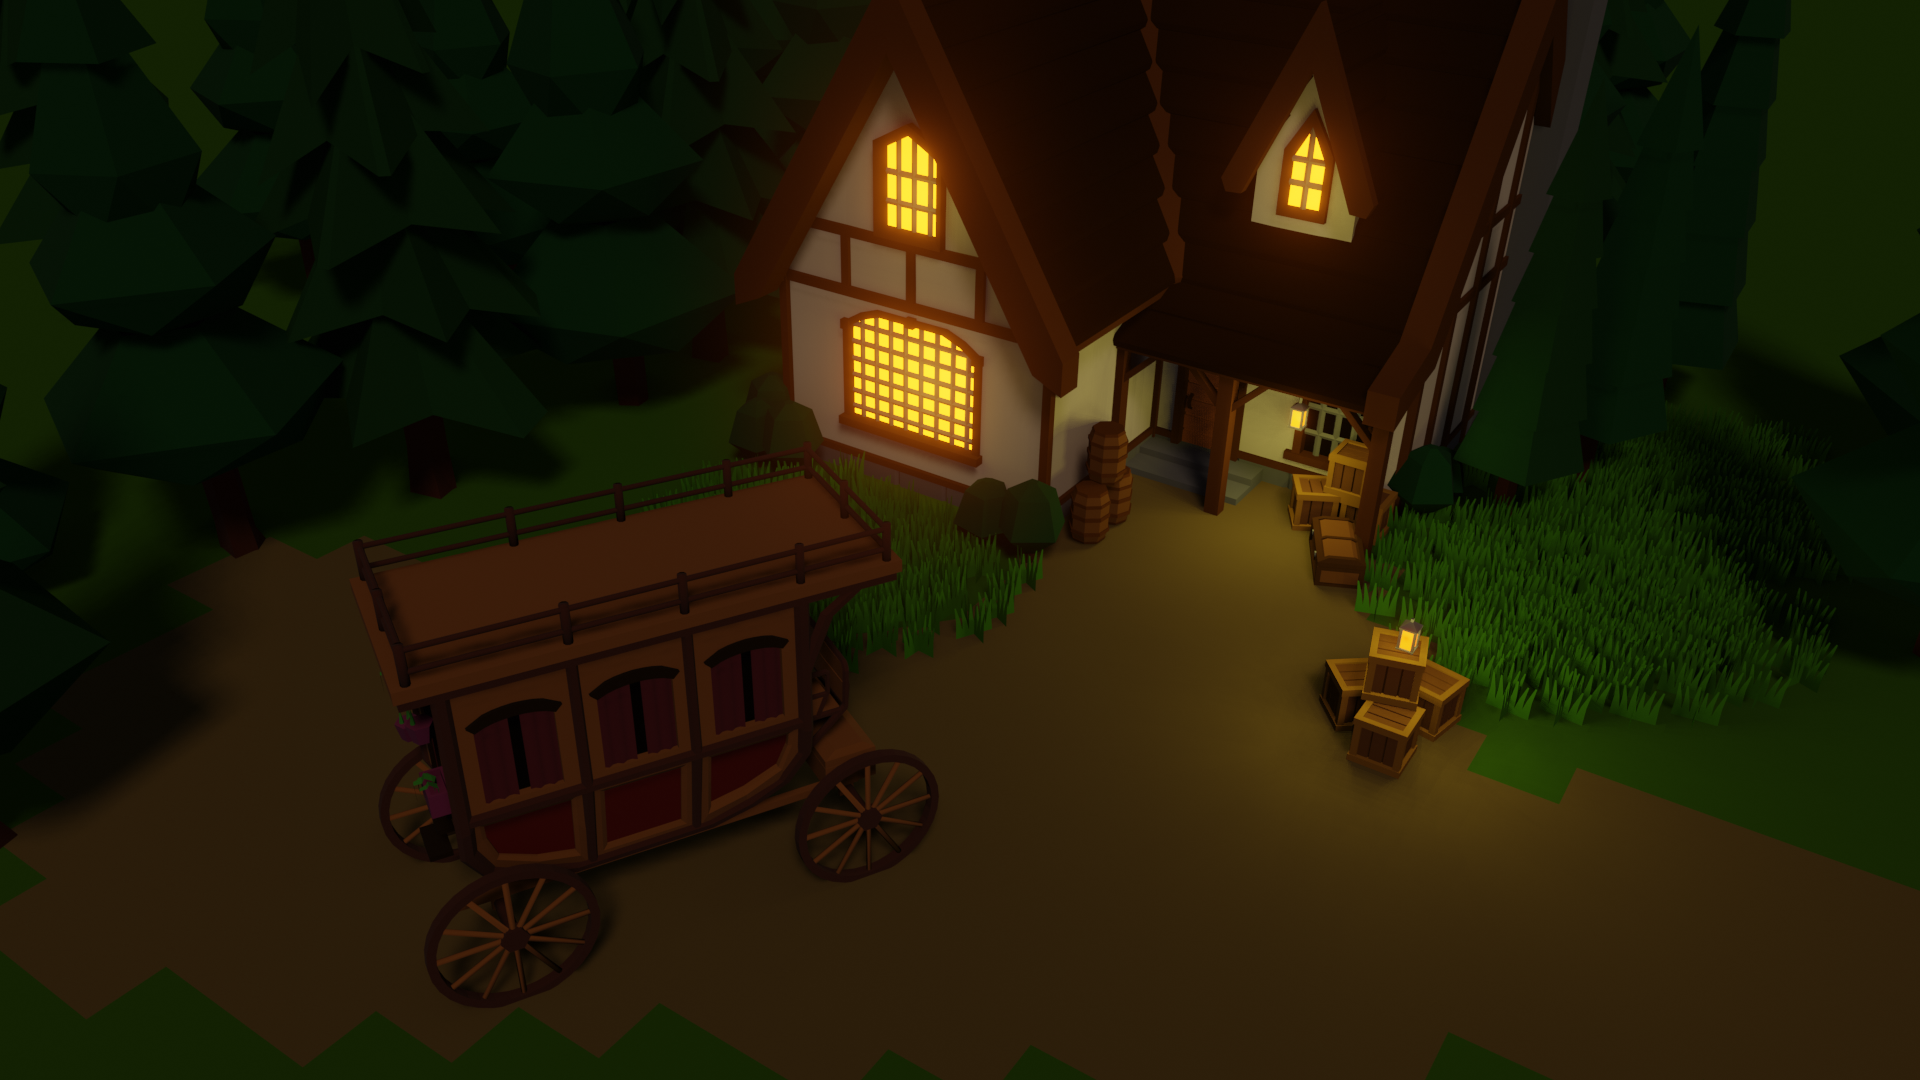
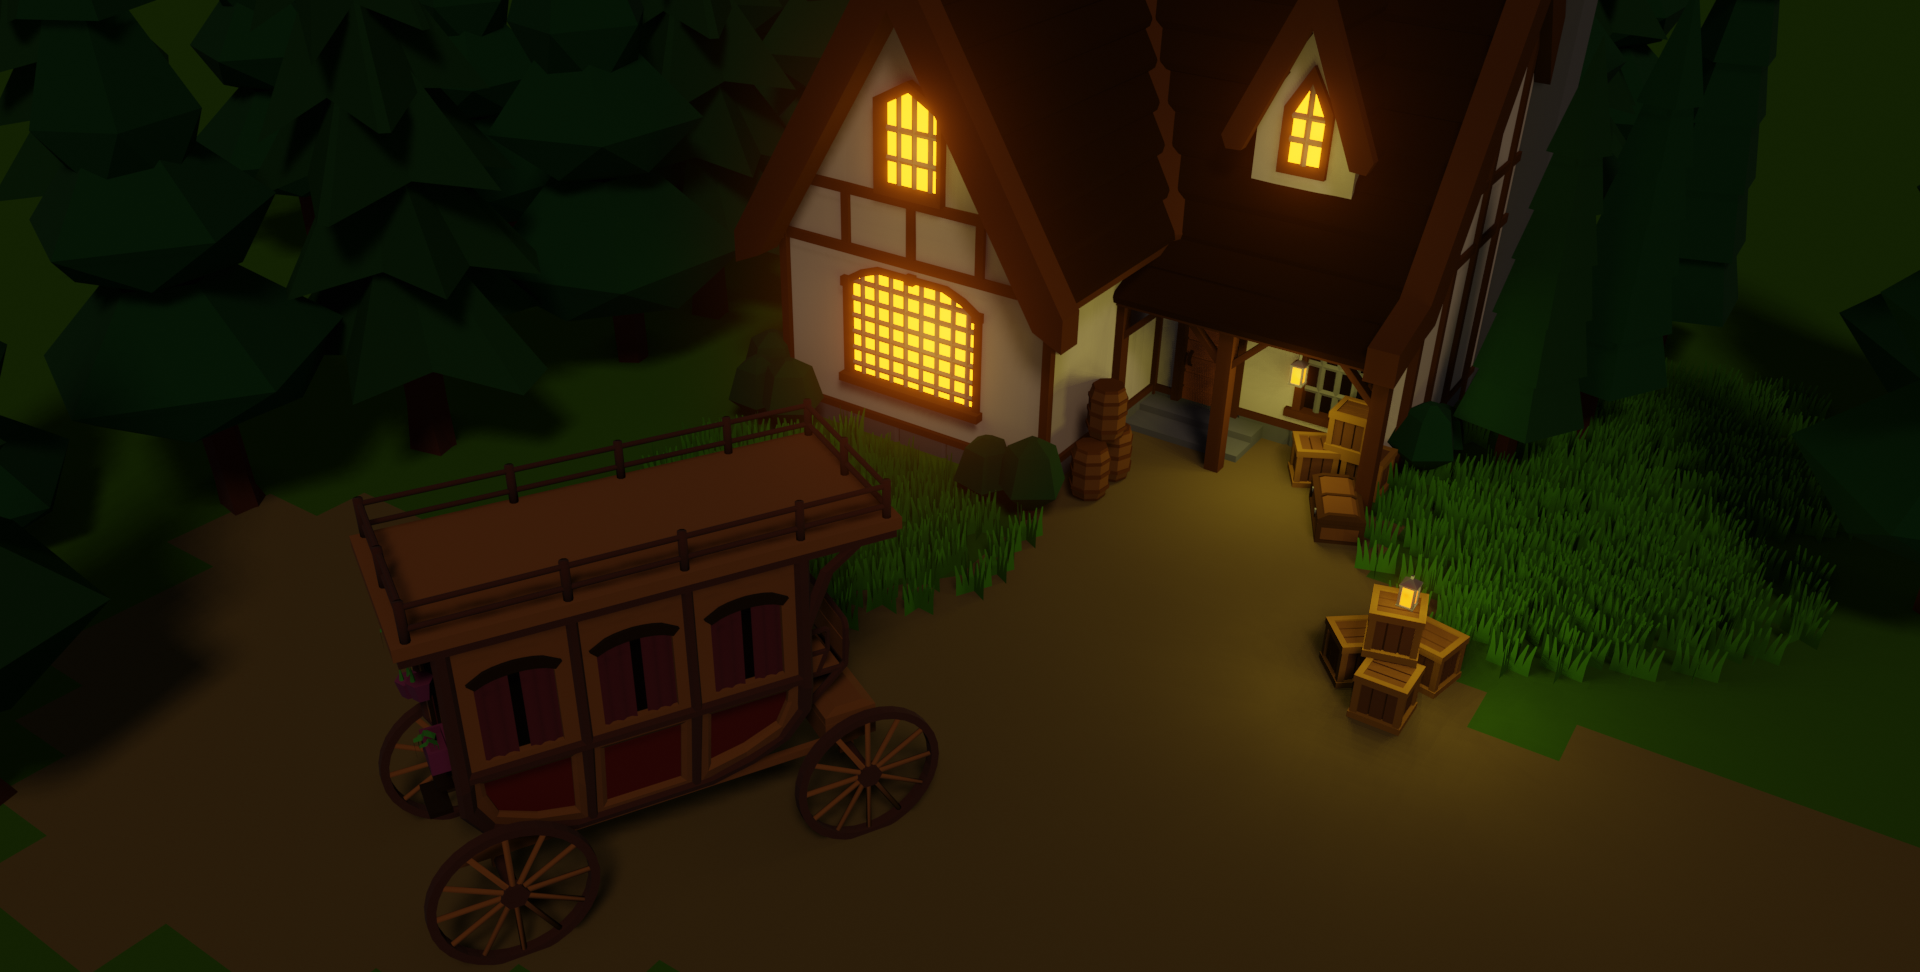
wadwad
adw

diff --git a/frontend/src/pages/Home.js b/frontend/src/pages/Home.js
@@ -8,8 +8,8 @@ import lineart2 from '../img/lineart2.png'
 import bg_dark_2 from '../img/bg_dark_2.png'
 import llyod from '../img/llyod.png'
 import voronoi2 from '../img/voronoi2.png'
-import bg_dark_3 from '../img/bg_dark_3.png'
-import bg_dark_4 from '../img/bg_dark_4.png'
+import bg_dark_3 from '../img/bg_dark_3.jpg'
+import bg_dark_4 from '../img/bg_dark_4.jpg'
 import Socials from '../components/Socials.js'
 
 import ss3 from '../img/ss3.PNG'
@@ -43,13 +43,13 @@ function Home() {
 
           <span className='welcome-span'>
             <div className= 'welcome-desc'>
-              <p1> 
+              <p1>
                 Explore the world of A Modest Legacy, where you must fight
                 to create your kingdom while taking down your enemies.
                 A Modest Legacy is a real time strategy, roguelite,
                 single-player game where you must work to grow your cities,
                 outposts, and armies, all while keeping your population fed and
-                ready for war. 
+                ready for war.
               </p1>
               <iframe
                 src="https://store.steampowered.com/widget/1858090/"
@@ -57,14 +57,14 @@ function Home() {
               </iframe>
             </div>
 
-            
+
 
             <iframe
               width="600"  className='img-shadow'
               src="https://www.youtube.com/embed/xTy1GrrcGRQ">
             </iframe>
           </span>
-          
+
 
         </div>
 
@@ -139,7 +139,7 @@ function Home() {
             </p1>
           </div>
 
-          <div className= 'pic-parent-2'>
+          <div className= 'pic-parent-3'>
             <img className= 'ss-img img-shadow' src={ss4} alt="voronoi2"/>
             <img className= 'ss-img img-shadow' src={combat2} alt="llyod"/>
           </div>

diff --git a/frontend/src/pages/Contact.js b/frontend/src/pages/Contact.js
@@ -1,5 +1,5 @@
 import legacy from '../img/legacy-logo.png'
-import aboutus_splash from '../img/about_us_image.png'
+import aboutus_splash from '../img/about_us_image2.jpg'
 import lineart1 from '../img/lineart1.png'
 import steamIcon from '../img/steamIcon.png'
 import youtubeIcon from '../img/youtubeIcon.png'
@@ -86,8 +86,8 @@ function Contact() {
               <p1> Co-Founder and Fullstack developer </p1>
               <div className= 'profile-desc'>
                 <p3> Hey! I'm Bas, a Data Science major and Cognitive Science minor currently attending UC San Diego.
-                  I am experienced in an array of programming languages including python, Java, C#, C++, R, HTML, CSS, 
-                  and JavaScript, complemented by experience with tools such as React and Unity. 
+                  I am experienced in an array of programming languages including python, Java, C#, C++, R, HTML, CSS,
+                  and JavaScript, complemented by experience with tools such as React and Unity.
 
                 </p3>
               </div>

diff --git a/frontend/src/pages/HitTheRoad.js b/frontend/src/pages/HitTheRoad.js
@@ -1,5 +1,5 @@
 import legacy from '../img/legacy-logo.png'
-import hittheroad_splash from '../img/hittheroad_main.png'
+import hittheroad_splash from '../img/tavern_htr_v2.png'
 import lineart1 from '../img/lineart1.png'
 import steamIcon from '../img/steamIcon.png'
 import youtubeIcon from '../img/youtubeIcon.png'
